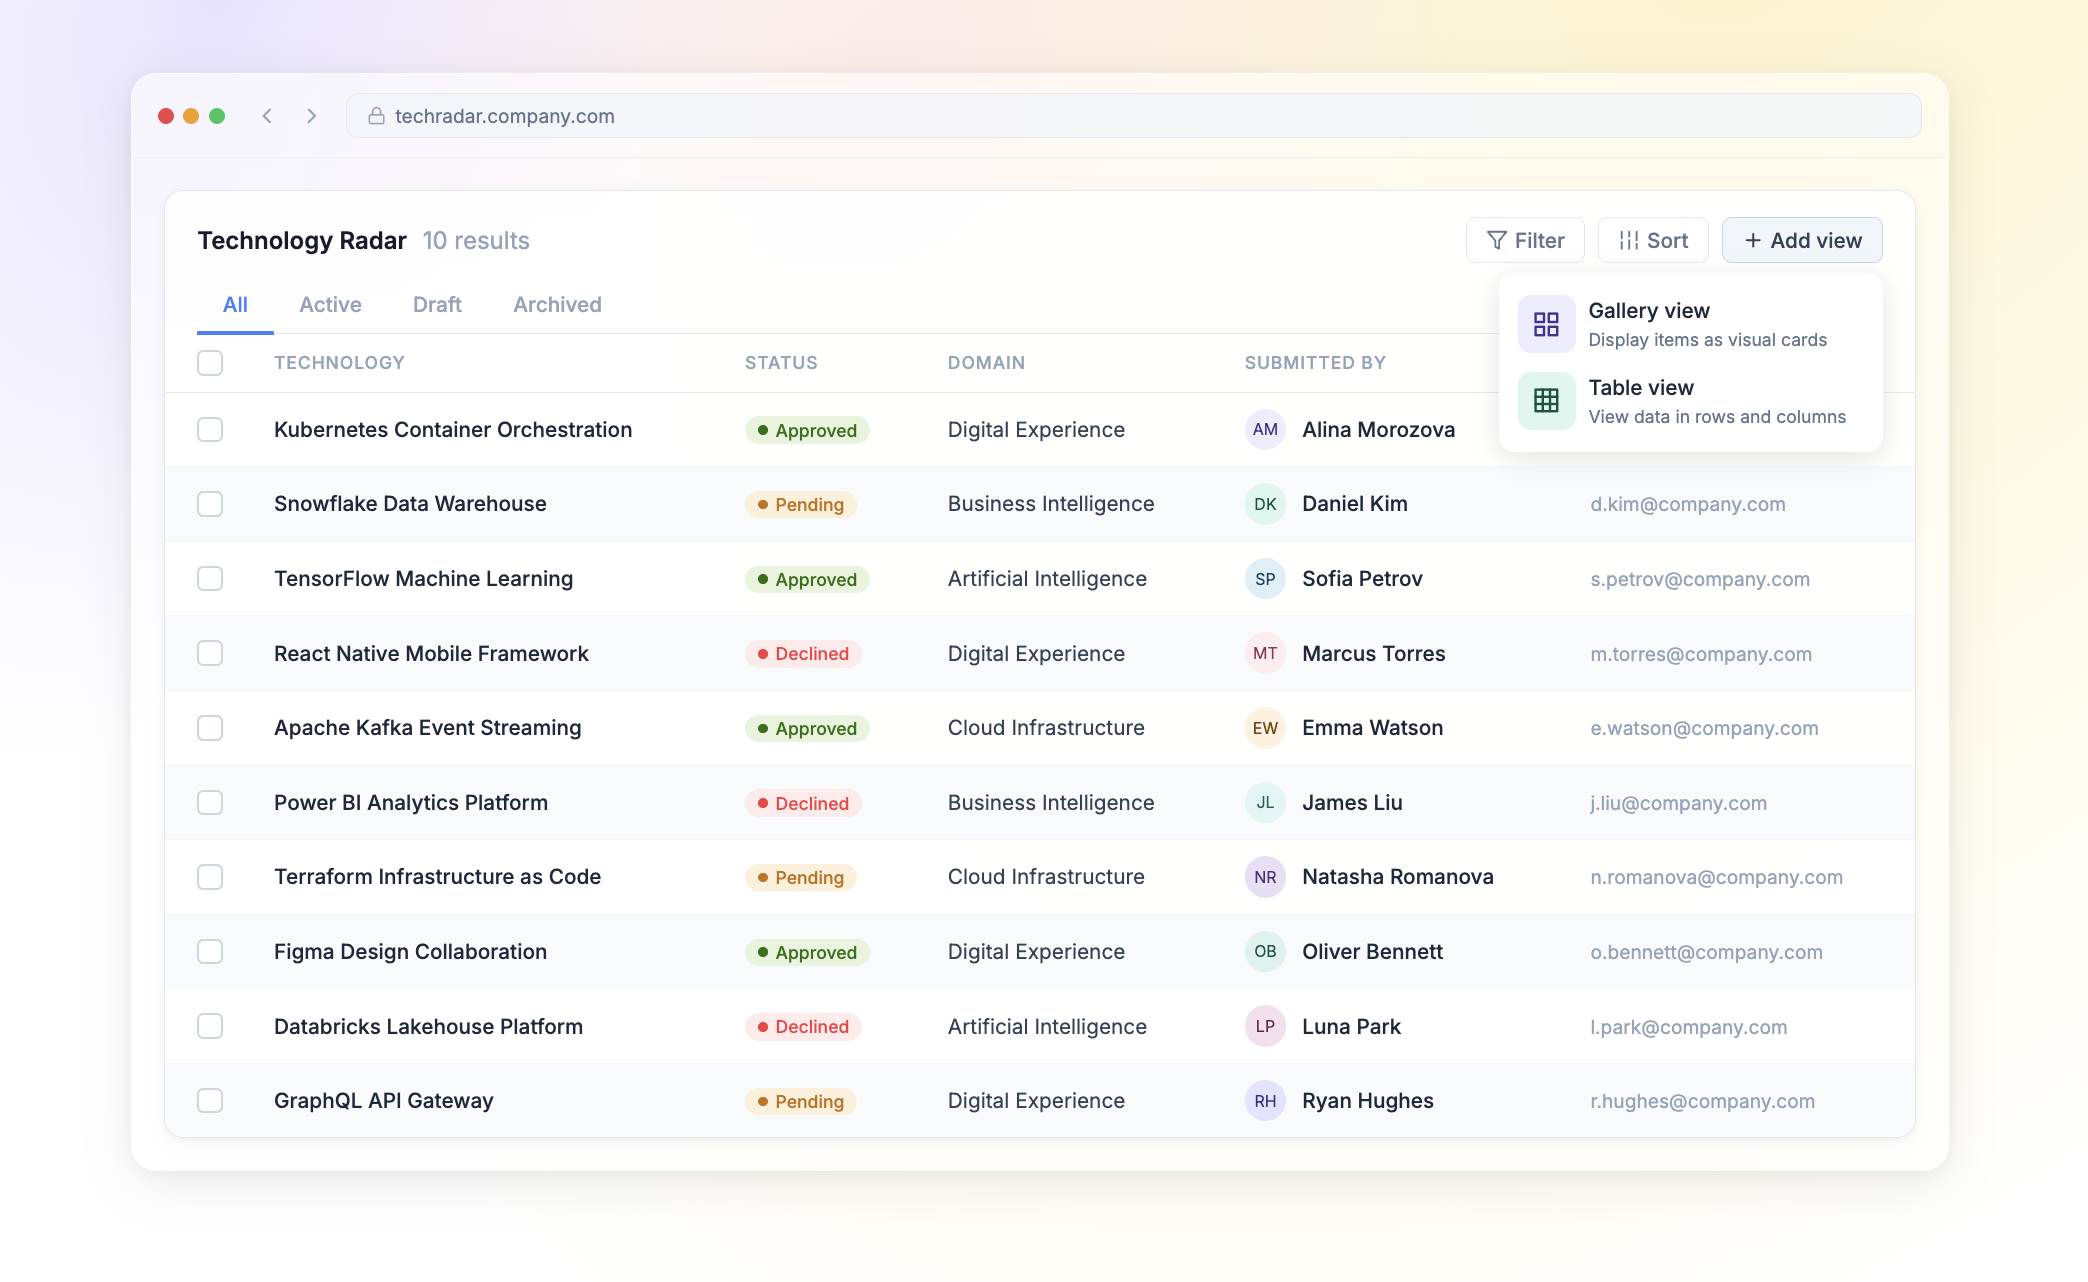
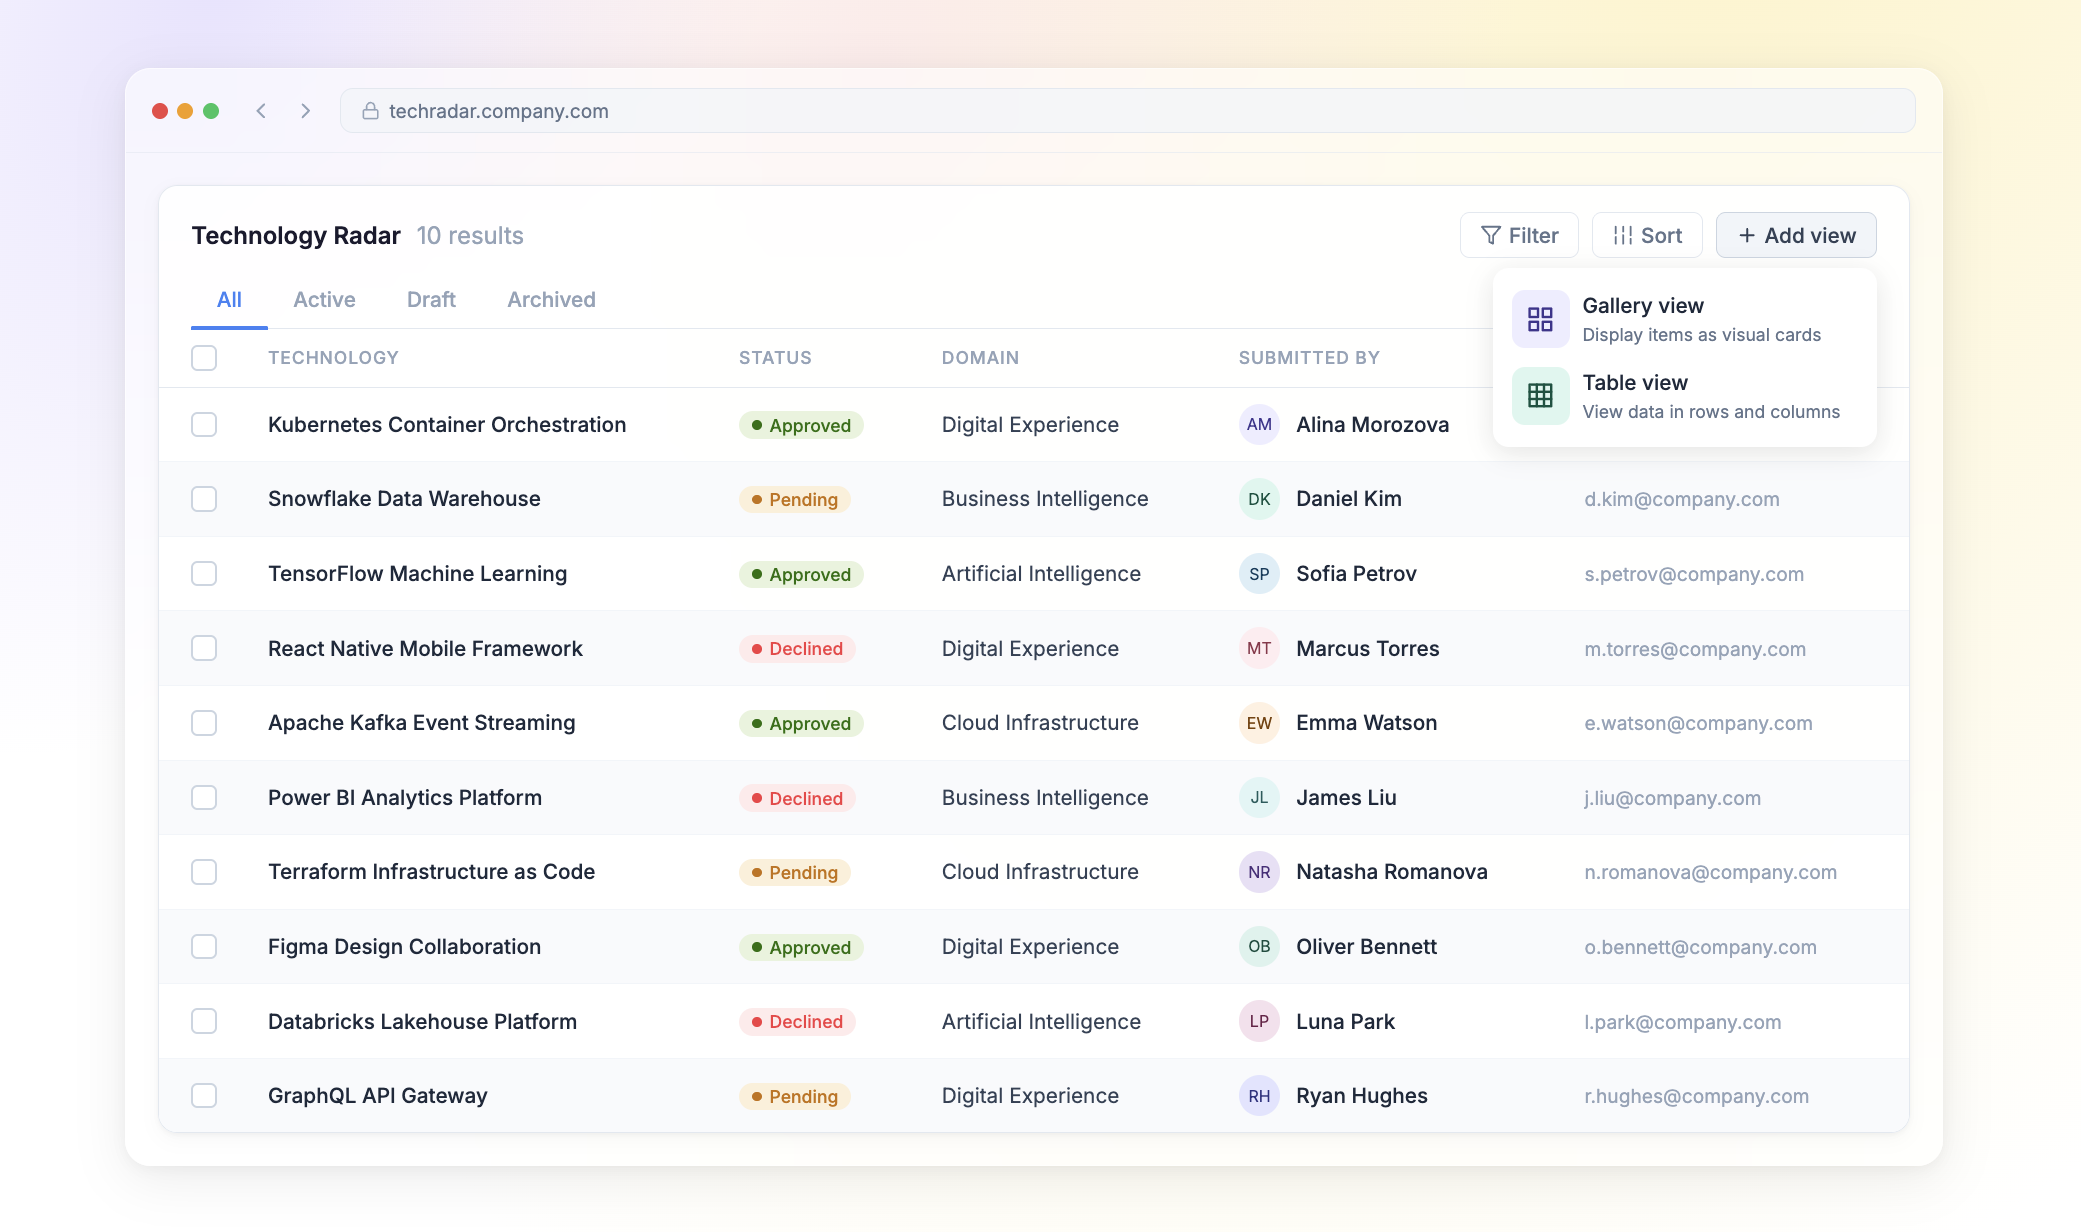
Update cover image, fix mobile animations, and burger menu

diff --git a/project1.html b/project1.html
@@ -1455,23 +1455,13 @@
         padding: 32px 0;
       }
       .anim-embed .scene {
-        width: 520px;
-        transform: scale(0.75);
-        transform-origin: top center;
-      }
-      /* Collapse the space taken by the scaled-down scene */
-      .anim-embed {
-        height: calc((520px * 1.2) * 0.75 + 64px);
-        overflow: hidden;
+        zoom: 0.75;
       }
     }
 
     @media (max-width: 480px) {
       .anim-embed .scene {
-        transform: scale(0.58);
-      }
-      .anim-embed {
-        height: calc((520px * 1.2) * 0.58 + 64px);
+        zoom: 0.58;
       }
     }
   </style>
@@ -1983,7 +1973,8 @@
       function center(el) {
         const sr = scene.getBoundingClientRect();
         const pr = el.getBoundingClientRect();
-        return { x: pr.left - sr.left + pr.width / 2, y: pr.top - sr.top + pr.height / 2 + 6 };
+        const z = sr.width / scene.offsetWidth || 1;
+        return { x: (pr.left - sr.left + pr.width / 2) / z, y: (pr.top - sr.top + pr.height / 2 + 6 * z) / z };
       }
 
       function placeholder(t) {
@@ -2117,9 +2108,10 @@
       function getElementCenter(el) {
         const sceneRect = scene.getBoundingClientRect();
         const elRect = el.getBoundingClientRect();
+        const z = sceneRect.width / scene.offsetWidth || 1;
         return {
-          x: elRect.left - sceneRect.left + elRect.width / 2,
-          y: elRect.top - sceneRect.top + elRect.height / 2 + 6
+          x: (elRect.left - sceneRect.left + elRect.width / 2) / z,
+          y: (elRect.top - sceneRect.top + elRect.height / 2 + 6 * z) / z
         };
       }
 
@@ -2244,8 +2236,9 @@
           await wait(200);
           const textareaRect = textEl.getBoundingClientRect();
           const sceneRect = scene.getBoundingClientRect();
-          const textareaClickX = textareaRect.left - sceneRect.left + 40;
-          const textareaClickY = textareaRect.top - sceneRect.top + 20;
+          const z = sceneRect.width / scene.offsetWidth || 1;
+          const textareaClickX = (textareaRect.left - sceneRect.left + 40 * z) / z;
+          const textareaClickY = (textareaRect.top - sceneRect.top + 20 * z) / z;
           await moveCursorTo(textareaClickX, textareaClickY, 800);
           await wait(300);
 
@@ -2382,9 +2375,10 @@
       function getElementCenter(el) {
         const sceneRect = scene.getBoundingClientRect();
         const elRect = el.getBoundingClientRect();
+        const z = sceneRect.width / scene.offsetWidth || 1;
         return {
-          x: elRect.left - sceneRect.left + elRect.width / 2,
-          y: elRect.top - sceneRect.top + elRect.height / 2 + 6
+          x: (elRect.left - sceneRect.left + elRect.width / 2) / z,
+          y: (elRect.top - sceneRect.top + elRect.height / 2 + 6 * z) / z
         };
       }
 

diff --git a/styles.css b/styles.css
@@ -151,7 +151,7 @@ h1 {
 .nav-toggle span {
   display: block;
   width: 100%;
-  height: 1.5px;
+  height: 2px;
   background: var(--color-black);
   position: absolute;
   left: 0;
